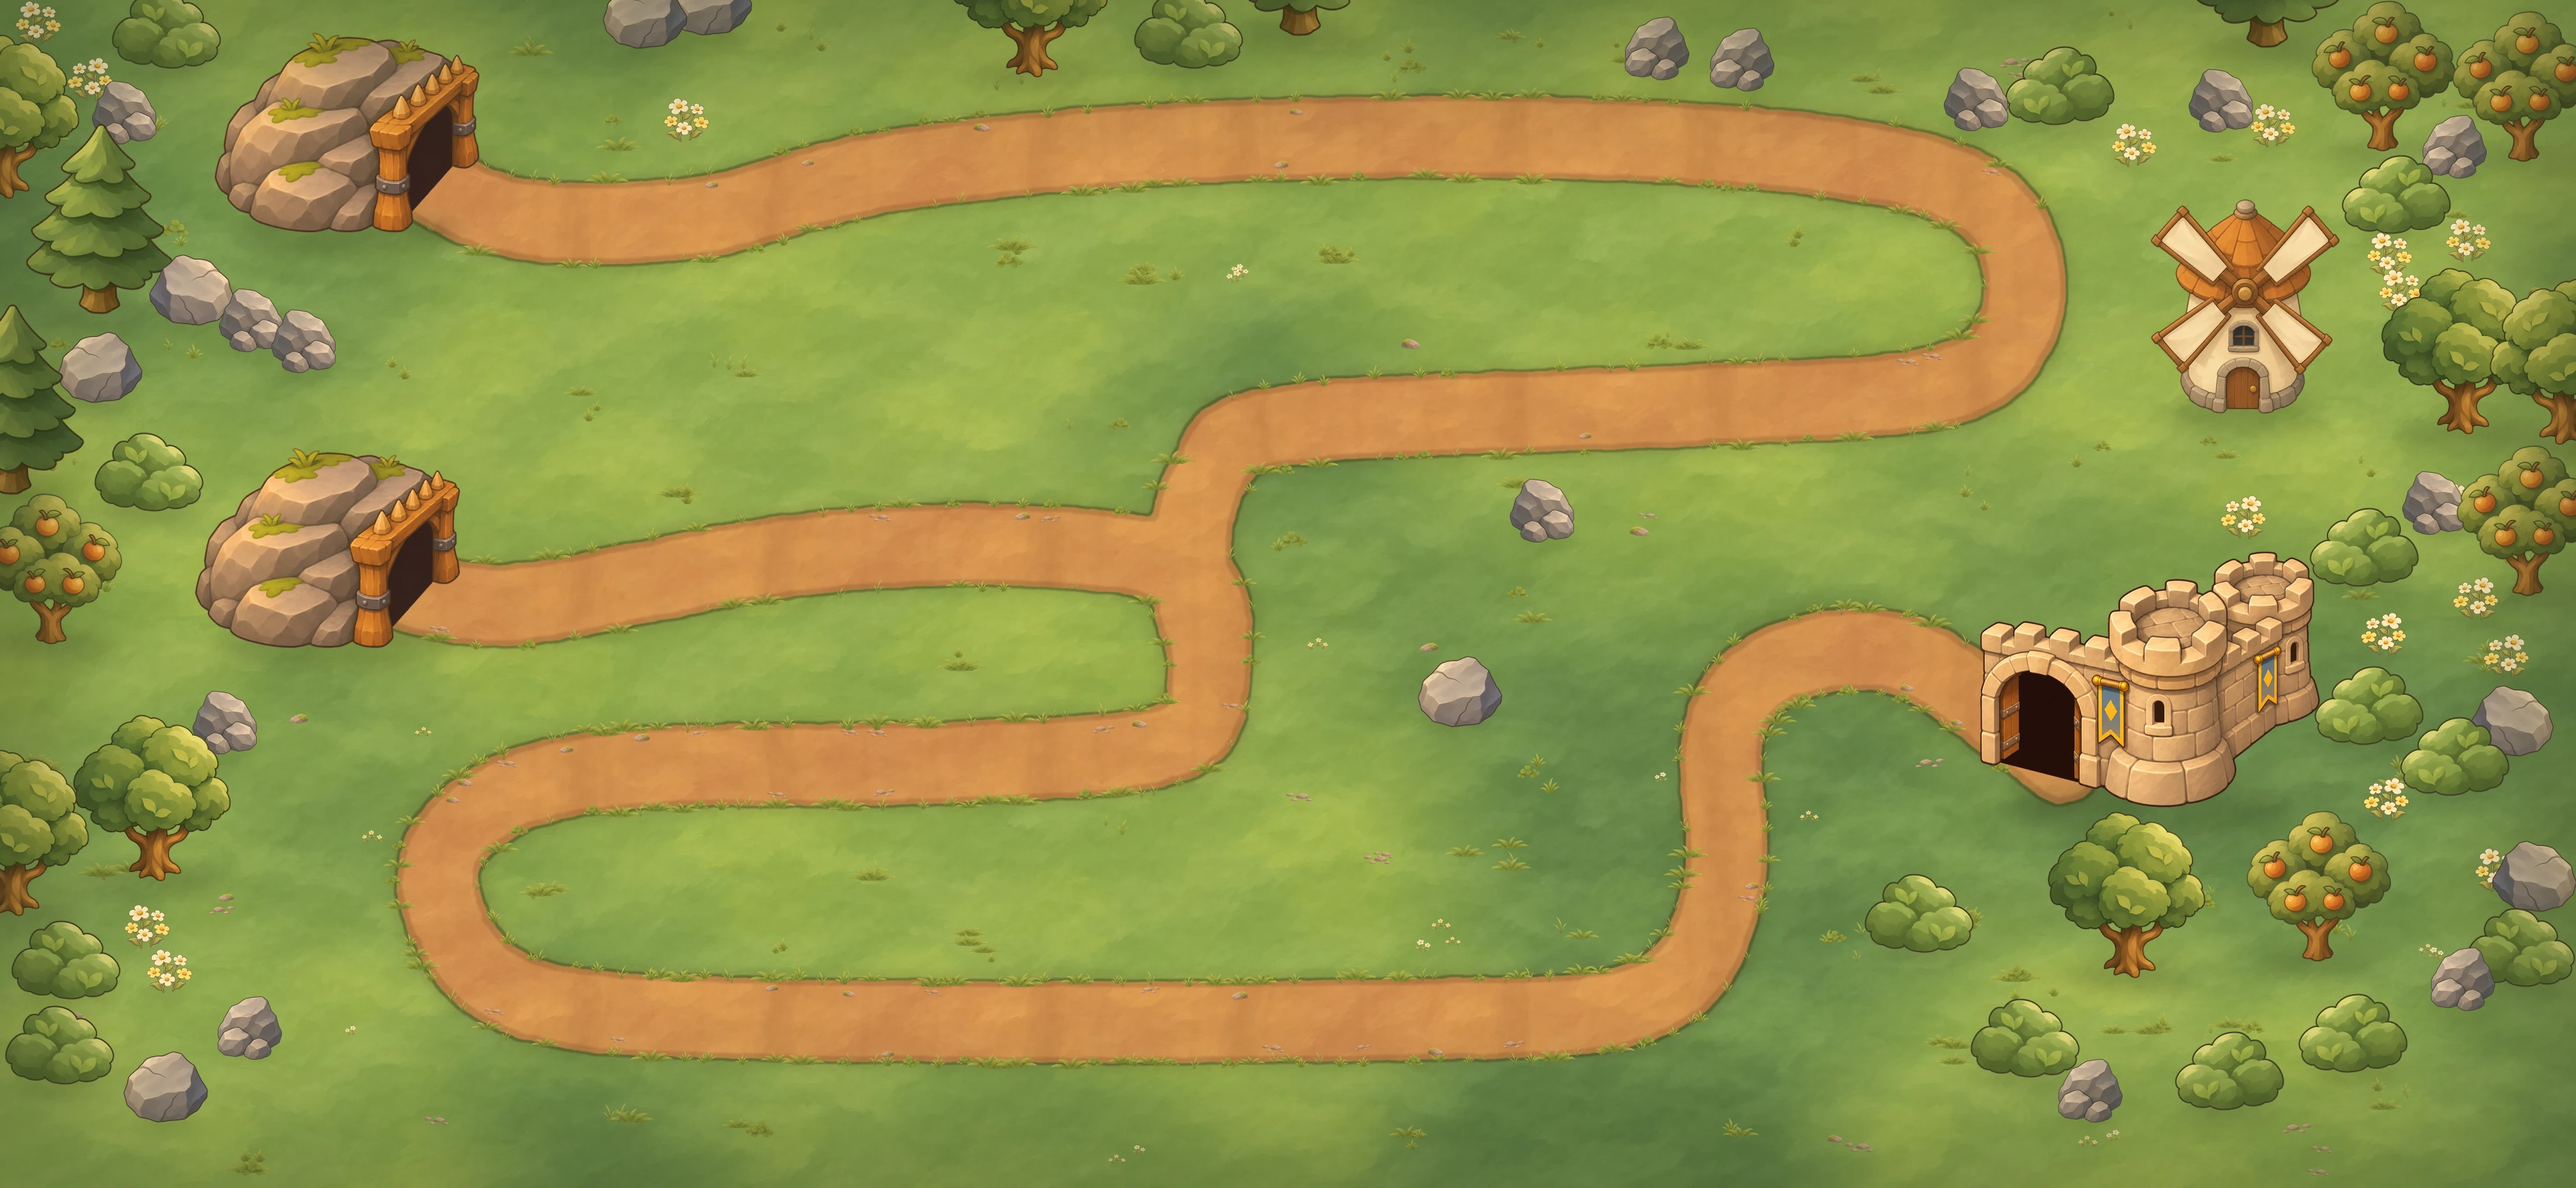
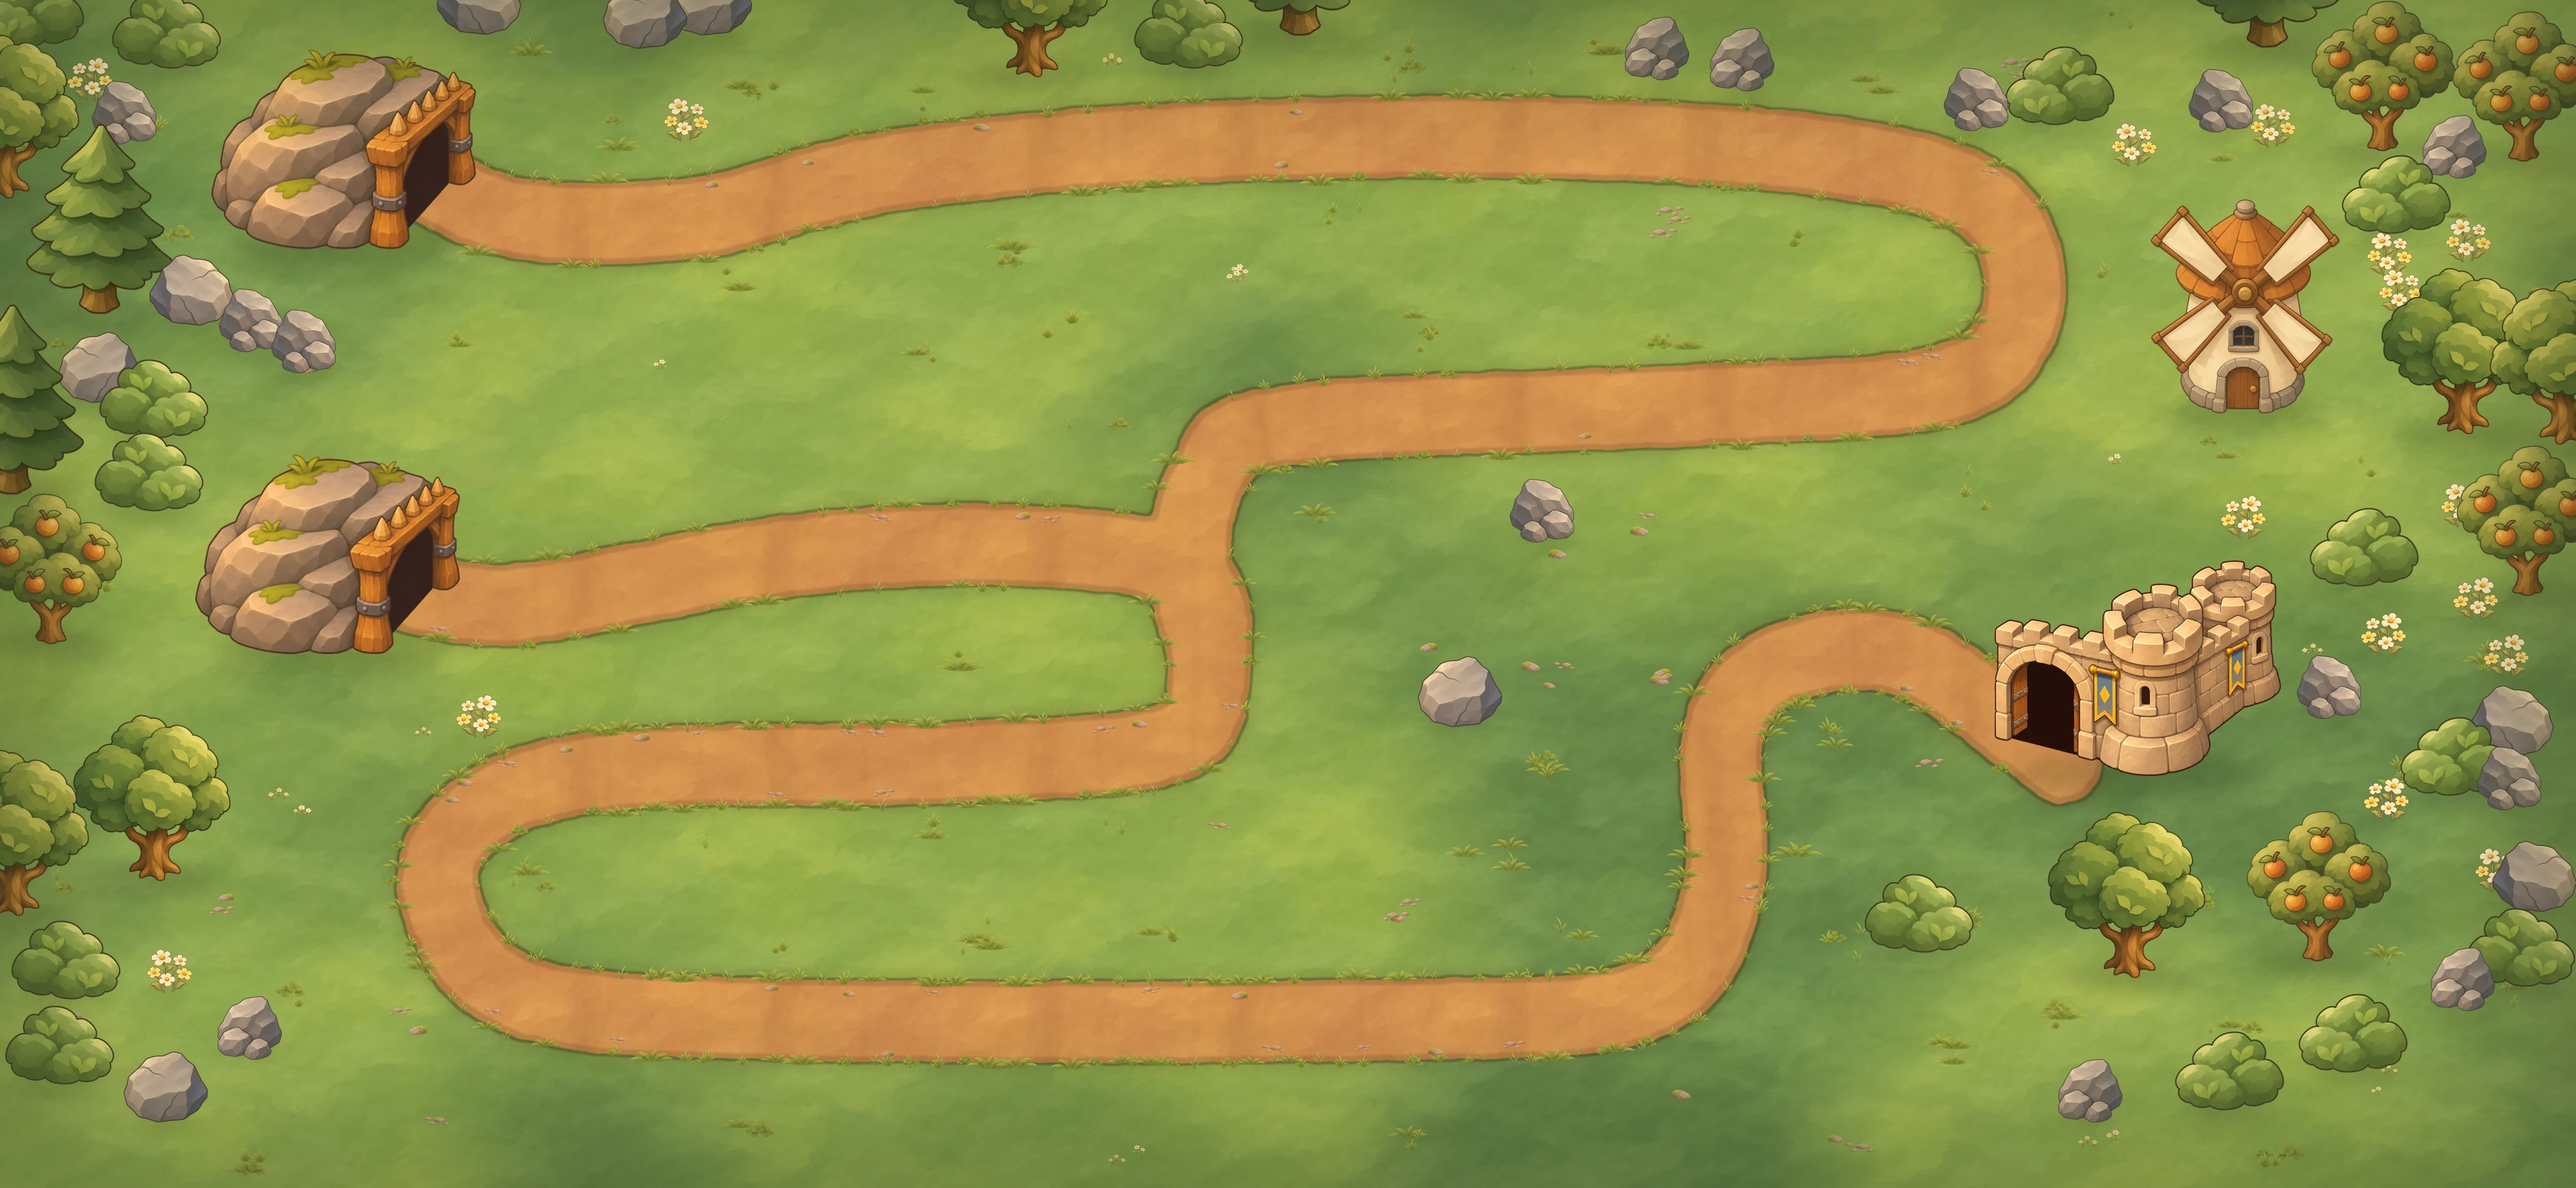
map: gates placed along the walkers' own line (castle arch on the road centre), castle 2.7 road widths; QA distance-to-goal from the sim

diff --git a/src/render2d/game2d.ts b/src/render2d/game2d.ts
@@ -447,11 +447,6 @@ export class Game2D {
     const w = this.world;
     const out: { type: string; lane: number; dist: number; toGoal: number; px: number; py: number }[] = [];
     const pool = w.enemyPool;
-    const lens = this.level.layout2d!.paths.map((p) => {
-      let L = 0;
-      for (let i = 1; i < p.length; i++) L += Math.hypot(p[i].x - p[i - 1].x, p[i].z - p[i - 1].z);
-      return L;
-    });
     for (let i = 0; i < pool.getActiveCount(); i++) {
       const e = pool.items[pool.getActiveIndex(i)];
       if (!e.active || e.flying) continue;
@@ -460,7 +455,7 @@ export class Game2D {
         type: e.type,
         lane: e.lane,
         dist: r2(e.dist),
-        toGoal: r2((lens[e.lane] ?? 0) - e.dist),
+        toGoal: r2(e.totalDist - e.dist),
         px: Math.round(this.map.pxX(e.x)),
         py: Math.round(this.map.pxY(e.z)),
       });

diff --git a/tools/map-compose/compose.py b/tools/map-compose/compose.py
@@ -5,7 +5,7 @@ with generated build plots.
 usage: /usr/bin/python3 tools/map-compose/compose.py <layout.json> <assets_dir> <out.png|.webp>
          [--w 3072] [--plots 24] [--seed 7] [--bake] [--keep-plots]
          [--towers archer:3,cannon:9,...] [--enemies] [--cliff]
-         [--variants 1,1.5] [--write-layout] [--cave-h 2.5] [--castle-h 3.2] [--gate-inset 0.5]
+         [--variants 1,1.5] [--write-layout] [--cave-h 2.5] [--castle-h 2.7] [--gate-inset 0.5]
          [--windmill x,ybottom,h] [--decals 240] [--no-decals]
 
   shipped L1c bake (2x layout px master + 1x / 1.5x variants, gate fronts, gates written to the JSON):
@@ -64,7 +64,7 @@ from PIL import Image, ImageChops, ImageDraw, ImageFilter
 sys.path.insert(0, str(Path(__file__).resolve().parent))
 import numpy as np  # noqa: E402
 from gates import (  # noqa: E402
-    cut_front, entrance_facing, gate_alpha_hit, goal_facing, output_box, output_sprite, place_gate, resolve_prop,
+    cut_front, entrance_dir, entrance_facing, gate_alpha_hit, goal_dir, goal_facing, output_box, output_sprite, place_gate, resolve_prop,
 )
 from ground import Decals, fine_detail, inner_band, nearest_dist, ragged_mask, ring, road_fringe, scatter  # noqa: E402
 from ringfit import measure_ring  # noqa: E402
@@ -196,16 +196,16 @@ def sprite_rect(im, x_center, y_bottom, height):
 # Gates (gates.py): a raider cave at every entrance whose mouth faces along the road's first
 # segment, the castle gate at the goal facing back along the last segment. The path end sits
 # GATE_INSET road widths inside the dark mouth, so walkers appear out of the darkness (front layer).
-CAVE_H, CASTLE_H, GATE_INSET = opt('--cave-h', 2.5), opt('--castle-h', 3.2), opt('--gate-inset', 0.5)
+CAVE_H, CASTLE_H, GATE_INSET = opt('--cave-h', 2.5), opt('--castle-h', 2.7), opt('--gate-inset', 0.5)
 GATES = []  # dict(role, lane, id, prop, facing, g = placement)
 for _i, _e in enumerate(L['entrances']):
     _f = entrance_facing(raw_paths[_i])
     _prop, _file, _flip = resolve_prop('cave', _f, assets)
-    _g = place_gate(load(_file), _flip, (_e['x'], _e['y']), _f, ROAD_W * CAVE_H, ROAD_W * GATE_INSET)
+    _g = place_gate(load(_file), _flip, (_e['x'], _e['y']), _f, ROAD_W * CAVE_H, ROAD_W * GATE_INSET, entrance_dir(raw_paths[_i]))
     GATES.append({'role': 'entrance', 'lane': _i, 'id': str(_e['id']), 'prop': _prop, 'facing': _f, 'g': _g})
 _f = goal_facing(raw_paths[0])
 _prop, _file, _flip = resolve_prop('castle', _f, assets)
-_g = place_gate(load(_file), _flip, (gx, gy), _f, ROAD_W * CASTLE_H, ROAD_W * GATE_INSET)
+_g = place_gate(load(_file), _flip, (gx, gy), _f, ROAD_W * CASTLE_H, ROAD_W * GATE_INSET, goal_dir(raw_paths[0]))
 GATES.append({'role': 'goal', 'lane': -1, 'id': 'goal', 'prop': _prop, 'facing': _f, 'g': _g})
 
 LANDMARKS = []  # (name, layout x centre, layout y bottom, layout height)

diff --git a/tools/map-compose/gates.py b/tools/map-compose/gates.py
@@ -39,6 +39,21 @@ def _first_step(path, frm, step):
     raise ValueError('path has no non-zero segment')
 
 
+def _unit(dx, dy):
+    n = math.hypot(dx, dy) or 1.0
+    return dx / n, dy / n
+
+
+def entrance_dir(path):
+    """Unit direction of the road leaving an entrance (its first segment)."""
+    return _unit(*_first_step(path, 0, 1))
+
+
+def goal_dir(path):
+    """Unit direction from the goal back along the road (its last segment, reversed)."""
+    return _unit(*_first_step(path, len(path) - 1, -1))
+
+
 def entrance_facing(path):
     return facing_from_dir(*_first_step(path, 0, 1))
 
@@ -116,18 +131,20 @@ def measure_mouth(im: Image.Image, facing: str, dark=58):
             'top_exit': top_exit}
 
 
-def place_gate(im_src: Image.Image, flip: bool, point, facing, height_layout, inset_layout):
+def place_gate(im_src: Image.Image, flip: bool, point, facing, height_layout, inset_layout, along=None):
     """Flip / measure a gate and compute where it goes (layout px).
 
     Returns dict(im (source px), k (source px -> layout px), left, top, rect, mouth, facing). The
-    path end `point` ends up `inset_layout` px inside the mouth's exit."""
+    path end `point` ends up `inset_layout` px inside the mouth's exit, measured along `along` (the
+    unit direction of the road leaving the gate: the walkers' own line), else along the facing."""
     im = im_src.transpose(Image.FLIP_LEFT_RIGHT) if flip else im_src
     mouth = measure_mouth(im, facing)
     k = height_layout / im.height  # sprite px -> layout px
     vx, vy = FACING_VEC[facing]
     ax, ay = mouth['anchor']
     # anchor (exit middle, layout px) = point + facing * inset
-    tx, ty = point[0] + vx * inset_layout, point[1] + vy * inset_layout
+    ux, uy = along if along is not None else (vx, vy)
+    tx, ty = point[0] + ux * inset_layout, point[1] + uy * inset_layout
     left = tx - ax * k
     top = ty - ay * k
     return {'im': im, 'k': k, 'left': left, 'top': top, 'mouth': mouth, 'facing': facing,
